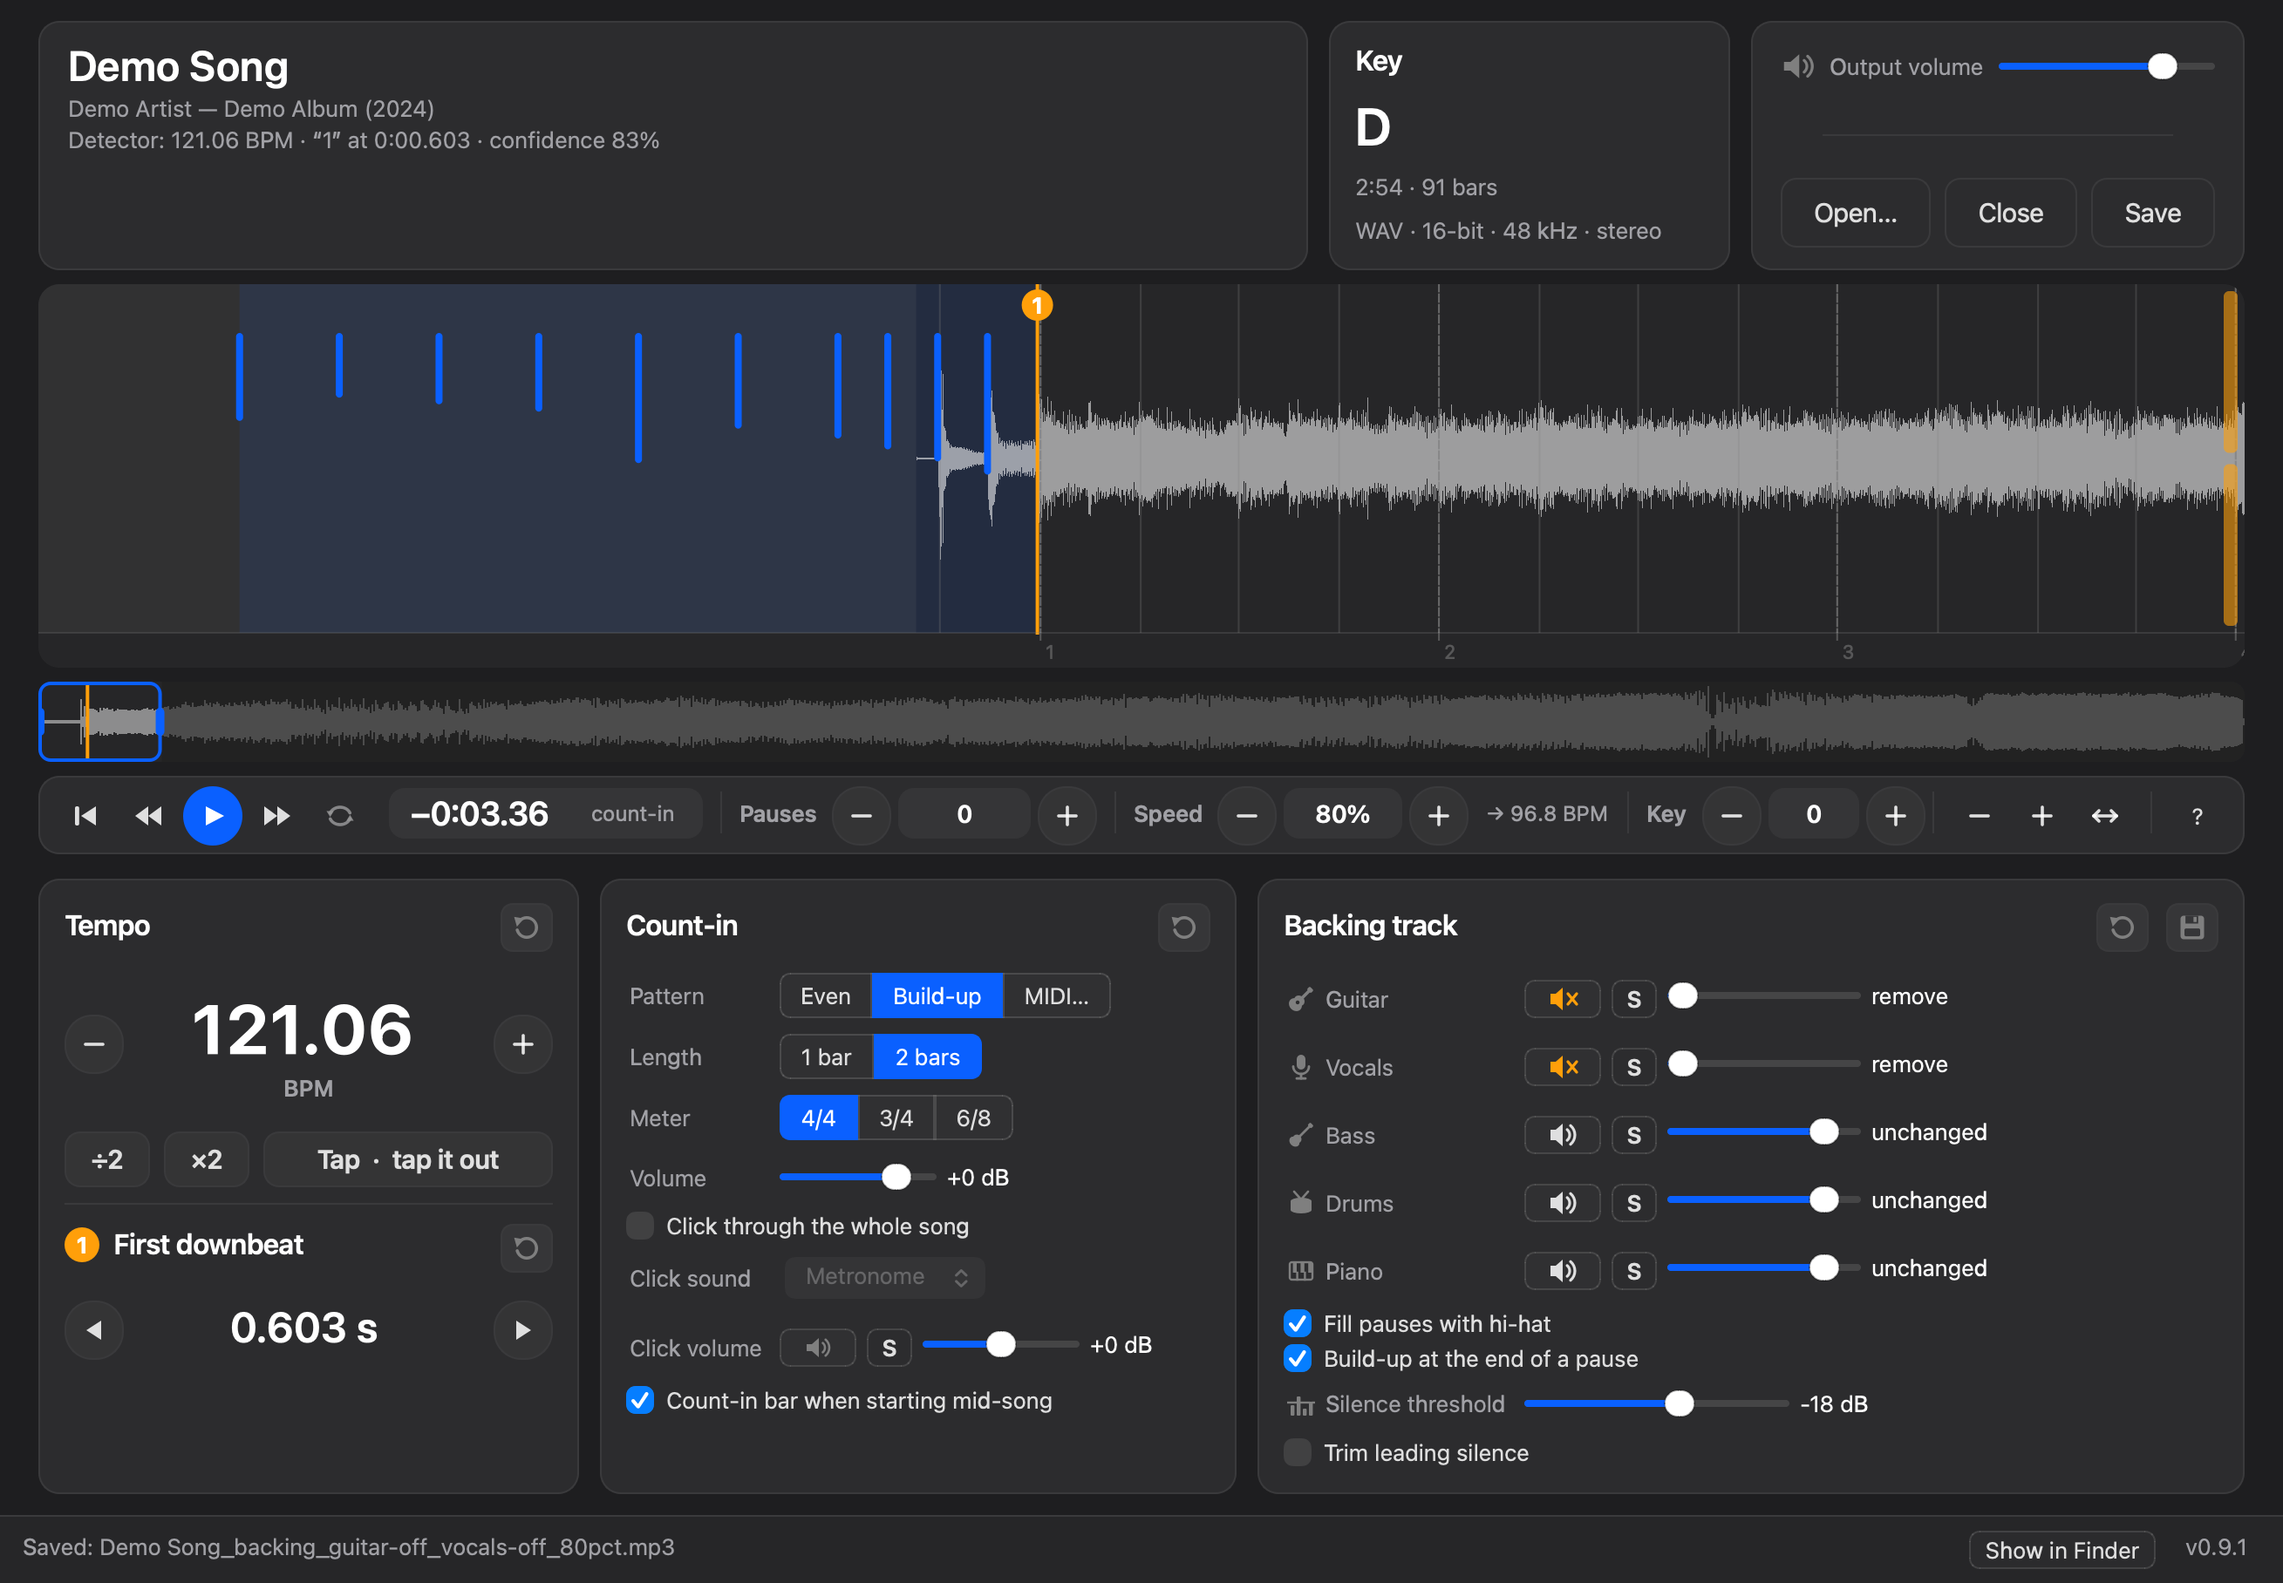
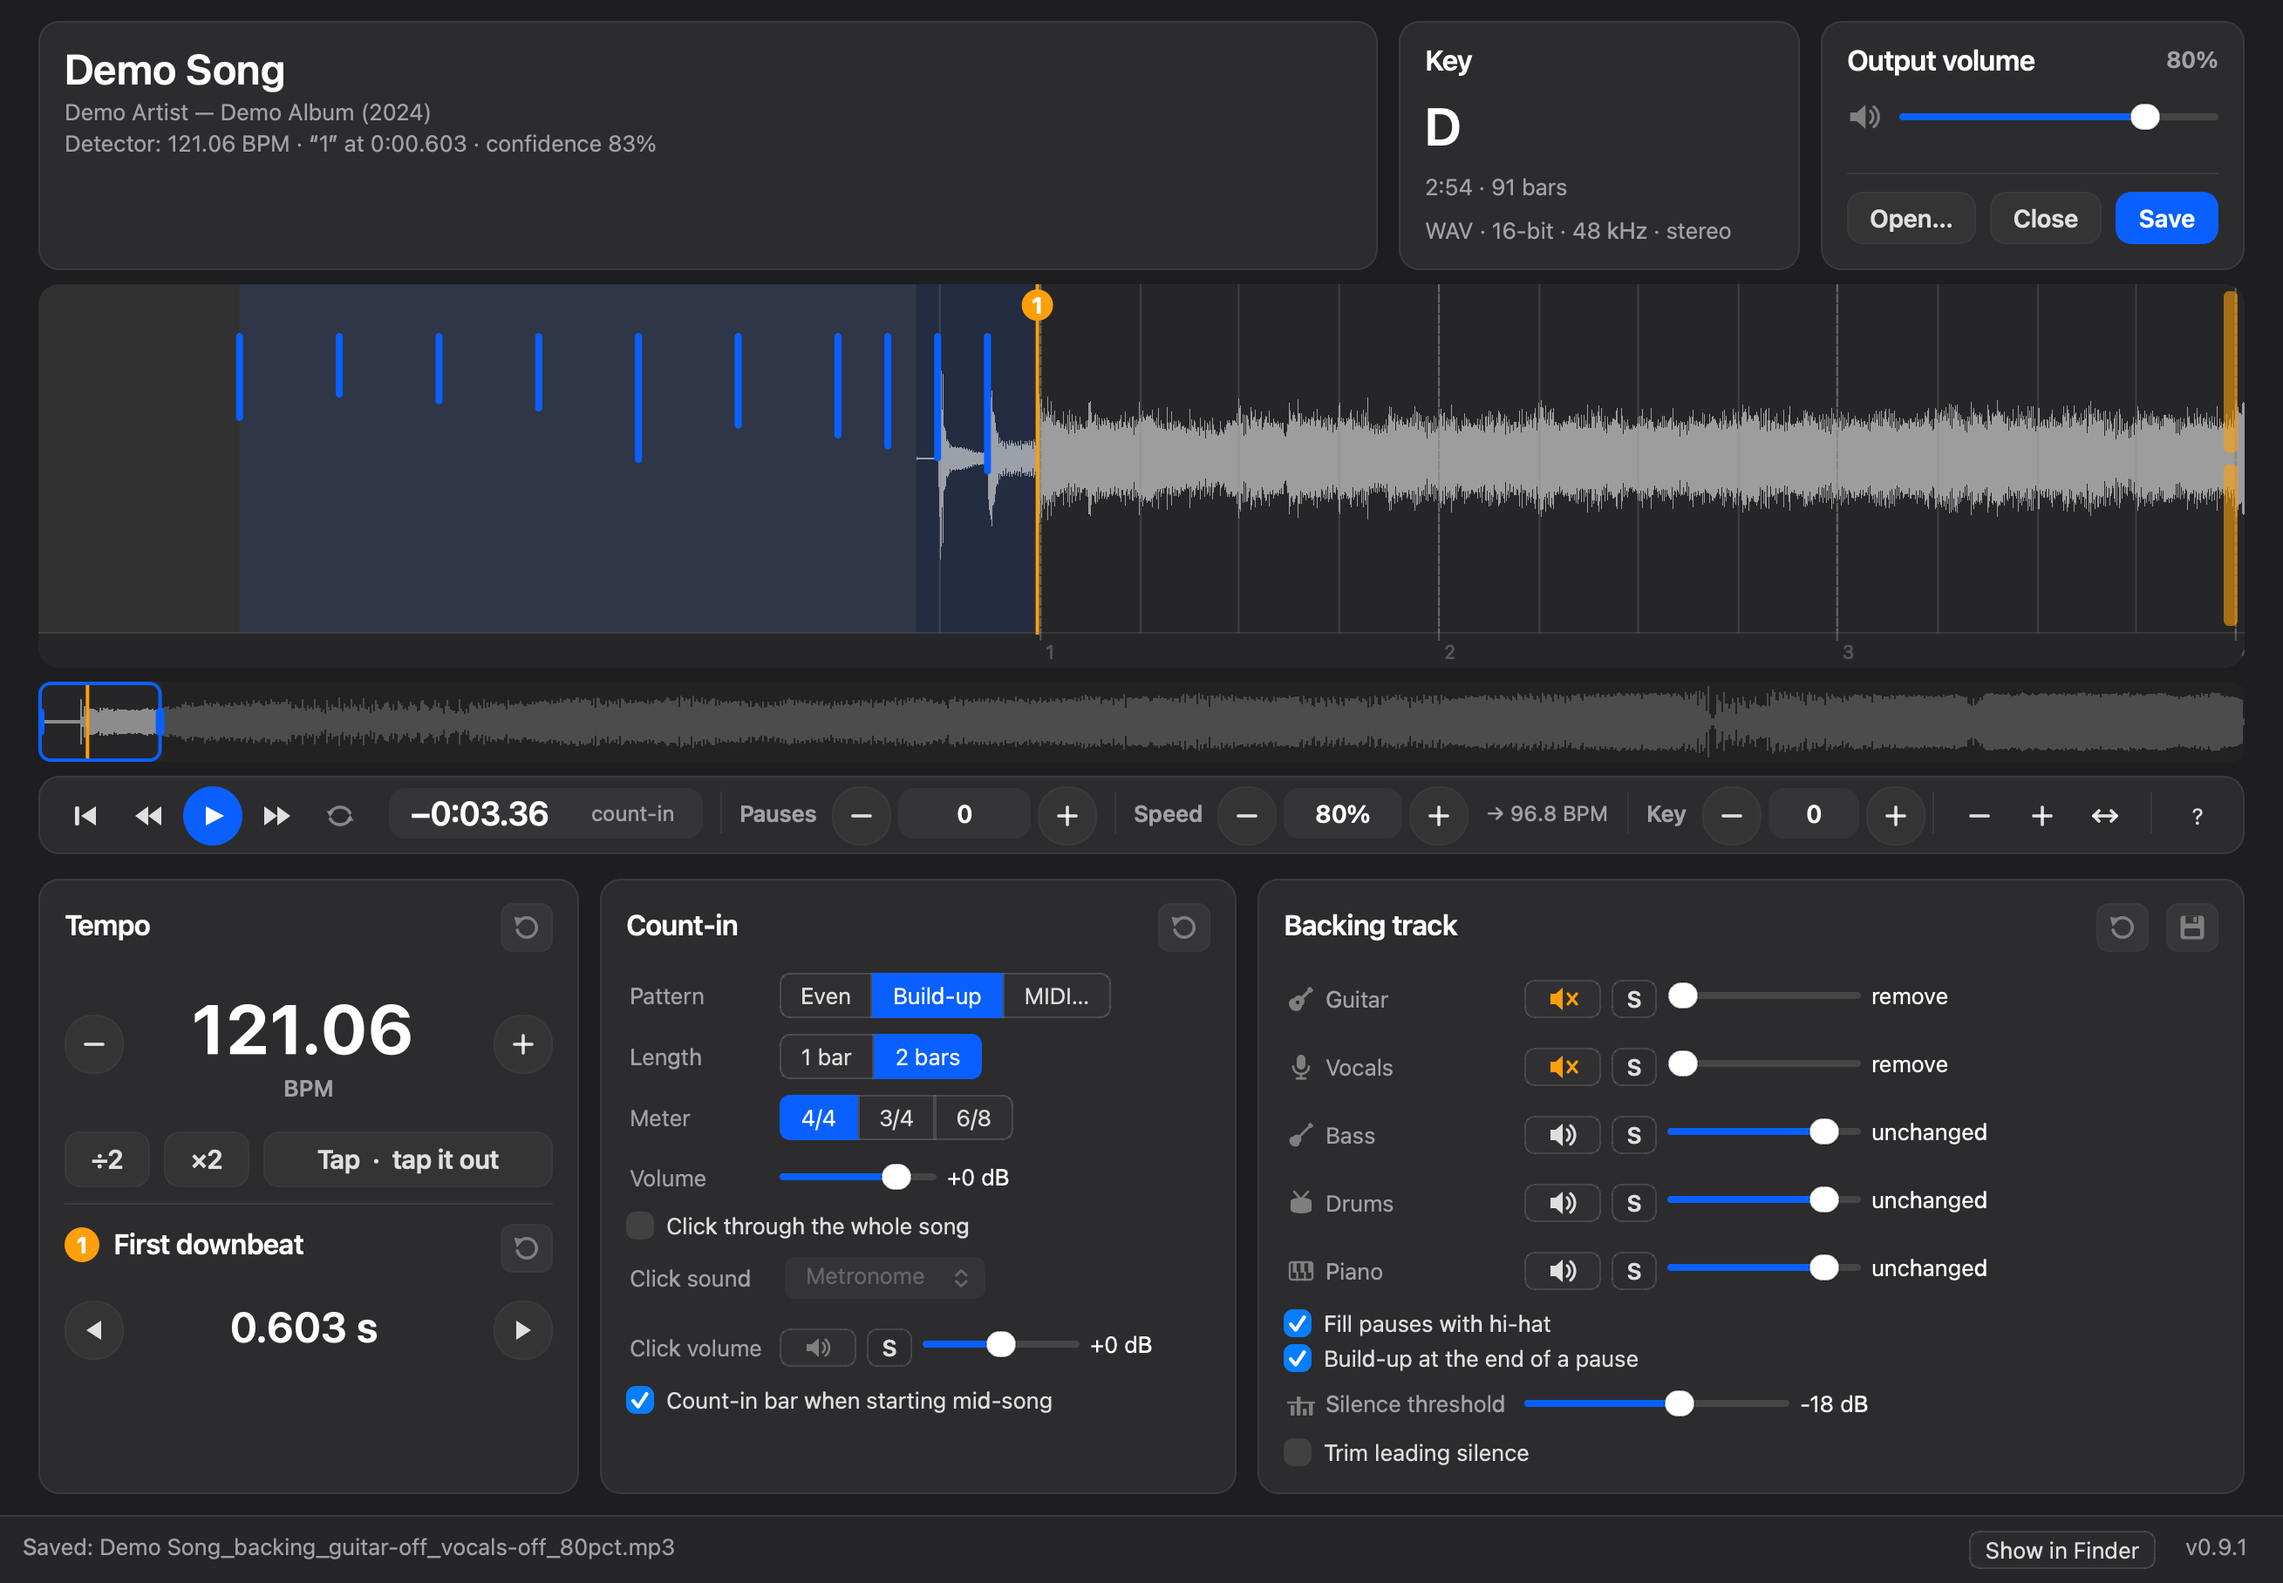
Header's right card in the cards' style: titled Output volume with a percent, file buttons under a rule, Save in the accent colour

diff --git a/src/countin/gui.py b/src/countin/gui.py
@@ -121,7 +121,13 @@ QPushButton#primary:disabled { background: rgba(127,127,127,0.25); }
 QPushButton#tool { border: 1px solid @BORDER@; border-radius: 9px; padding: 8px 18px; font-size: 15px;
                    background: @CARD@; min-height: 22px; }
 QPushButton#tool:disabled { color: gray; }
-QFrame#hsep { background: @BORDER@; }
+QPushButton#headBtn { border: 1px solid @BORDER@; border-radius: 9px; background: rgba(127,127,127,0.10);
+                      font-size: 14px; font-weight: 600; min-height: 28px; padding: 0 12px; }
+QPushButton#headBtn:hover { background: rgba(127,127,127,0.22); }
+QPushButton#headBtn:disabled { color: rgba(127,127,127,0.6); }
+QPushButton#headBtn[accent="true"] { background: @ACCENT@; color: @ACCENT_TEXT@; border-color: @ACCENT@; }
+QPushButton#headBtn[accent="true"]:disabled { background: rgba(127,127,127,0.10); color: rgba(127,127,127,0.6);
+                                              border-color: @BORDER@; }
 QPushButton#solo { border: 1px solid rgba(127,127,127,0.3); border-radius: 6px; padding: 0; font-weight: 600; }
 QPushButton#solo:checked { background: @ACCENT@; border-color: @ACCENT@; color: white; }
 QPushButton#small { border: 1px solid rgba(127,127,127,0.3); border-radius: 6px; padding: 2px 8px;
@@ -3044,7 +3050,7 @@ class Window(QMainWindow):
 
     def _header(self) -> QWidget:
         """Three cards like the ones under the waveform: the song and what the detector found, its key and
-        file, then the speaker level and the file buttons."""
+        file, then the speaker level over the file buttons."""
         head = QWidget(objectName="header")
         h = QHBoxLayout(head)
         h.setContentsMargins(22, 12, 22, 4)
@@ -3052,7 +3058,7 @@ class Window(QMainWindow):
 
         song = QFrame(objectName="card")
         sv = QVBoxLayout(song)
-        sv.setContentsMargins(16, 10, 16, 10)
+        sv.setContentsMargins(14, 12, 14, 12)
         sv.setSpacing(2)
         self.title = QLabel("Count-In", objectName="title")
         self.subtitle = QLabel(objectName="subtitle")
@@ -3073,11 +3079,9 @@ class Window(QMainWindow):
         self.info_card.hide()  # shown once a track opens
         h.addWidget(self.info_card, 0)
 
-        acts = QFrame(objectName="card")
-        av = QVBoxLayout(acts)
-        av.setContentsMargins(16, 12, 16, 12)
-        av.setSpacing(10)
         # Speaker level of the playback; never part of the saved file
+        self.out_pct = QLabel(objectName="unit")
+        acts, g = card(_("Громкость вывода"), self.out_pct)
         self.speaker = QLabel(toolTip=_("Громкость прослушивания"))
         self.out_volume = QSlider(Qt.Horizontal, minimum=0, maximum=100, minimumWidth=120,
                                   toolTip=_("Громкость прослушивания"), accessibleName=_("Громкость прослушивания"))
@@ -3085,29 +3089,23 @@ class Window(QMainWindow):
         self.out_volume.setFocusPolicy(Qt.TabFocus)
         self.out_volume.valueChanged.connect(self._output_volume)
         self._speaker_icon()
-        vol = QHBoxLayout()
-        vol.setSpacing(8)
-        vol.addWidget(self.speaker, 0, Qt.AlignVCenter)
-        vol.addWidget(QLabel(_("Громкость вывода"), objectName="field"), 0, Qt.AlignVCenter)
-        vol.addWidget(self.out_volume, 1, Qt.AlignVCenter)
-        av.addLayout(vol)
-        av.addStretch()
-        sep = QHBoxLayout()
-        sep.setContentsMargins(24, 0, 24, 0)  # a short rule, clear of the card's edges
-        sep.addWidget(QFrame(objectName="hsep", fixedHeight=1))
-        av.addLayout(sep)
-        av.addStretch()
-        self.open_b = QPushButton(_("Открыть…"), objectName="tool", clicked=self._open_dialog)
-        self.save_b = QPushButton(_("Сохранить"), objectName="tool", clicked=self._save,
+        g.addWidget(self.speaker, 0, 0, Qt.AlignVCenter)
+        g.addWidget(self.out_volume, 0, 1, Qt.AlignVCenter)
+
+        # File buttons along the card's bottom edge, under the same rule the tempo card uses
+        self.open_b = QPushButton(_("Открыть…"), objectName="headBtn", clicked=self._open_dialog)
+        self.save_b = QPushButton(_("Сохранить"), objectName="headBtn", clicked=self._save,
                                   toolTip=QKeySequence(QKeySequence.Save).toString(QKeySequence.NativeText))
-        self.close_b = QPushButton(_("Закрыть"), objectName="tool", clicked=self._close_track,
+        self.save_b.setProperty("accent", True)
+        self.close_b = QPushButton(_("Закрыть"), objectName="headBtn", clicked=self._close_track,
                                    toolTip=QKeySequence(QKeySequence.Close).toString(QKeySequence.NativeText))
         buttons = QHBoxLayout()
         buttons.setSpacing(8)
         for b in (self.open_b, self.close_b, self.save_b):  # Play lives in the transport bar under the waveform
             b.setFocusPolicy(Qt.TabFocus)
-            buttons.addWidget(b)
-        av.addLayout(buttons)
+            buttons.addWidget(b, 1)
+        acts.layout().addWidget(QFrame(objectName="hline"))
+        acts.layout().addLayout(buttons)
         h.addWidget(acts, 0)
         return head
 
@@ -4614,6 +4612,7 @@ class Window(QMainWindow):
 
     def _speaker_icon(self):
         self.speaker.setPixmap(part_icon("muted" if self.out_volume.value() == 0 else "speaker", QColor(127, 127, 127), 20))
+        self.out_pct.setText(f"{self.out_volume.value()}%")
 
     def _save_defaults(self):
         """The current count-in, part levels and pause settings become the start for every track."""

diff --git a/AGENTS.md b/AGENTS.md
@@ -82,7 +82,7 @@ Count-In inserts a drum count-in before a song's first downbeat and can turn gui
 - **Help.** "?" under the waveform and Help → Count-In Help (F1, ⌘?) open the user guide on the site in the app's language (`site_url`: `/guide/` or `/ru/guide/`); Help → Project page opens the site's home page the same way. `help.py` holds `TIPS` (the tips card) and `HELP` (the guide's sections, built by `docs/build_site.py`) as Russian strings with English in `i18n.EN`.
 - **Models.** Both models stay loaded for the life of the app (`lru_cache`). The separation model starts loading in the background when the first track opens (`warm_models`), so the first separation does not wait for it; "loading model" shows only when it really loads.
 - **Close.** "Close" (⌘W) goes back to the drop page without quitting; jobs for the closed track get cancelled and their results ignored.
-- **Preview volume and defaults.** The "Output volume" slider in the header's right card, above a short rule and the file buttons, sets `Player.volume` (`playback/volume`), the speaker level only; files never see it. the floppy icon in the backing-track card header (and the File menu); the round-arrow icon next to it restores the saved defaults, or the factory settings when none are saved, stores the count-in, part levels and trim under `defaults/`, and every new window starts from them.
+- **Preview volume and defaults.** The header's right card is titled "Output volume": the slider with its percent sets `Player.volume` (`playback/volume`), the speaker level only; files never see it. Under a rule along the card's bottom sit Open, Close and Save (`QPushButton#headBtn`, Save in the accent colour). The floppy icon in the backing-track card header (and the File menu); the round-arrow icon next to it restores the saved defaults, or the factory settings when none are saved, stores the count-in, part levels and trim under `defaults/`, and every new window starts from them.
 - **Preview.** `preview_job` renders the whole song from the count-in with the clicks, and hands the part stems over as `(array, output offset)`, slices of the cache with no copies. `Player` mixes them in the PortAudio callback with the current slider gains (`latency="high"`, 2048-frame blocks), so a seek, a jump to a pause or marker, or a loop wrap only moves `Player.pos` (`Window._jump`). A rebuilt preview (an edit, a level that needs stems, a new speed or key) swaps the buffer of the running stream, so it carries on without a gap. Only while the parts are still being separated for a turned-down level does it render an excerpt (`PREVIEW_AFTER`, `PREVIEW_FROM`). `Player.loop` plays output samples round; `Player.ticks` mixes clicks live, which gives the bar of count-in before a mid-song start (`click/preroll`); `Player.solo` plays only the soloed stems. The progress card shows only for jobs longer than 300 ms. Excerpt stems are cached per track in `stem_cache` as `(first sample, stems)`; a save stores full-track stems there too.
 - **Loop and sections.** A Shift-drag or ruler drag offers "Play in a Loop" or "Make a Hi-Hat Pause". L toggles the loop; the speed trainer (Playback menu) adds 5% every `TRAINER_LAPS` passes. M adds a named section marker at the playhead, keys 1–9 jump to the first nine, right-click on a marker renames or deletes it; markers go into `tempo.mid` as MIDI markers. The ruler counts bars; ⌘G goes to a bar. N and P walk the set list made by opening several files at once; PageDown and PageUp (page-turner pedals) play/stop and play again.
 - **Song memory.** `core/songs.py` keeps what was set for each song under its content hash in the data folder (`songs/<hash>.json`): tempo, the "1", count-in, part levels, speed, key, click, the pauses the user made or edited, removed pauses, loop and markers. `_restore_song` applies it after analysis; changes save 0.8 s after the last edit and on close. Undo (⌘Z, ⇧⌘Z) steps through tempo, the "1", user pauses and markers; edits within 0.6 s make one step.
